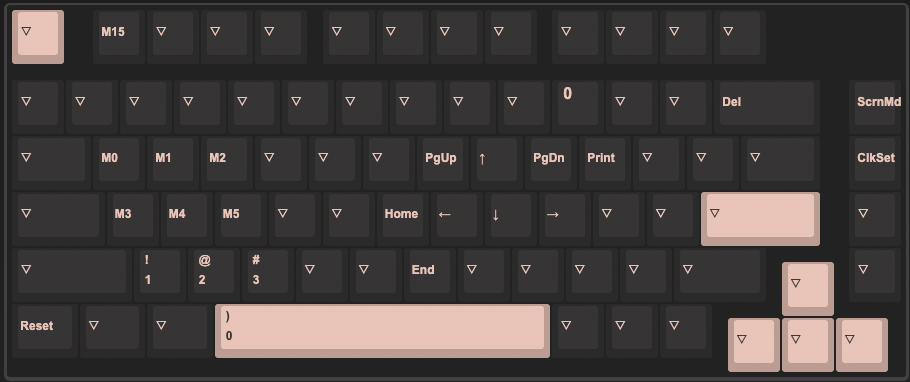
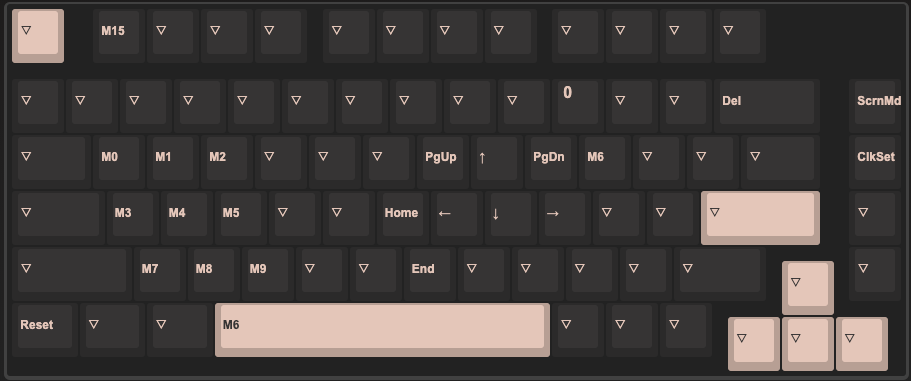
s75 new macros and layer 1

diff --git a/cannonkeys-satisfaction-75/README.md b/cannonkeys-satisfaction-75/README.md
@@ -12,7 +12,10 @@ These macros are used along with [BetterTouchTool](https://folivora.ai/) to perf
 | M3       | `{KC_LGUI,KC_LEFT}`                 | (Windows, Non-BetterTouchTool) Maximize Window Left Half  |
 | M4       | `{KC_LCTL,KC_LALT,KC_LGUI,KC_LEFT}` | Move Window to Next Monitor                               |
 | M5       | `{KC_LGUI,KC_RGHT}`                 | (Windows, Non-BetterTouchTool) Maximize Window Right Half |
-
+| M6       | `{KC_LCTL,KC_LALT,KC_P}`            | Take a screenshot                                         |
+| M7       | `{KC_LALT,KC_LGUI,KC_8}`            | OSX Zoom (Enable in Accessibility settings)               |
+| M8       | `{KC_LALT,KC_LGUI,KC_MINS}`         | Decrease zoom                                             |
+| M9       | `{KC_LALT,KC_LGUI,KC_EQL}`          | Increase zoom                                             |
 
 #### Layer 0
 ![alt text](images/s75_layer0.png)

diff --git a/rama-u80a/README.md b/rama-u80a/README.md
@@ -15,7 +15,7 @@ These macros are used along with [BetterTouchTool](https://folivora.ai/) to perf
 | M6       | `{KC_LCTL,KC_LALT,KC_P}`            | Take a screenshot                                         |
 | M7       | `{KC_LALT,KC_LGUI,KC_8}`            | OSX Zoom (Enable in Accessibility settings)               |
 | M8       | `{KC_LALT,KC_LGUI,KC_MINS}`         | Decrease zoom                                             |
-| M8       | `{KC_LALT,KC_LGUI,KC_EQL}`          | Increase zoom                                             |
+| M9       | `{KC_LALT,KC_LGUI,KC_EQL}`          | Increase zoom                                             |
 
 
 #### Layer 0
